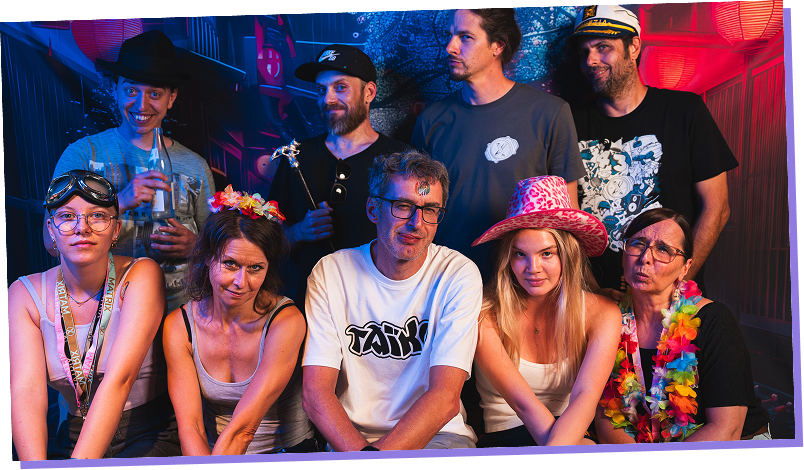
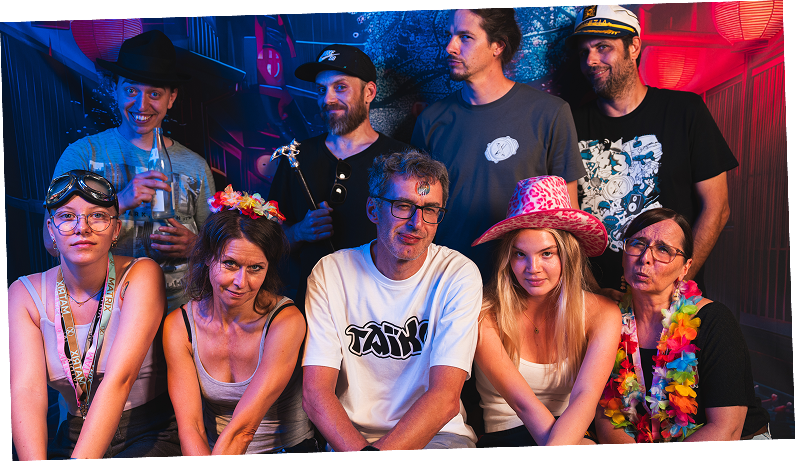
Update team

diff --git a/src/data/team.ts b/src/data/team.ts
@@ -45,10 +45,10 @@ export const teamGroups: TeamGroup[] = [
   {
     title: 'Die FSJler',
     members: [
-      { name: 'Melanie Hagen', role: 'FSJlerin' },
+      { name: 'Nick Diehl', role: 'FSJler' },
       { open: true, title: 'Bewirb dich jetzt!', text: 'Jeden September starten neue FSJler', href: '/mitmachen/#kontakt' },
       // TODO: surname missing in the concept.
-      { name: 'Mija', role: 'FSJlerin' },
+      { name: 'Cash Money', role: 'FSJler' },
     ],
   },
 ];
